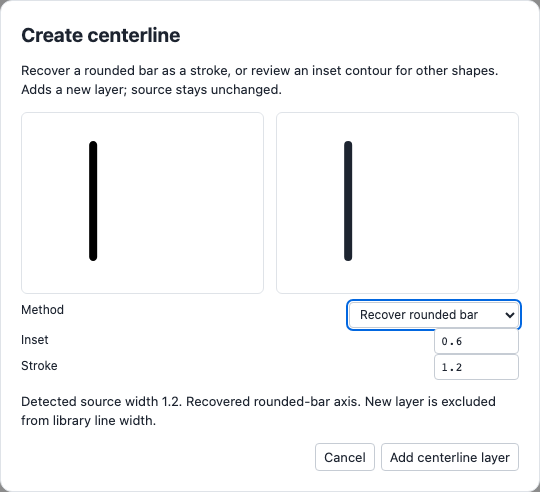
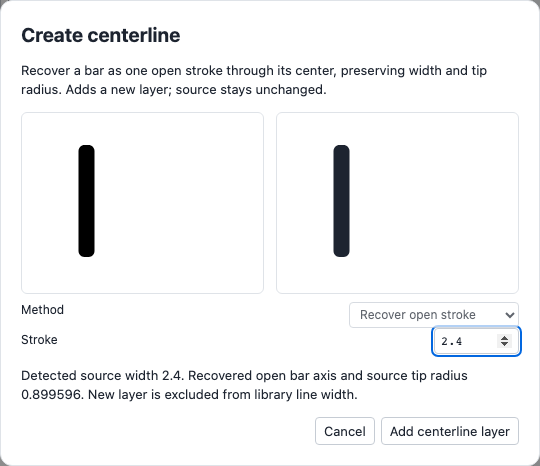
Recover open bar centerlines and expose local stroke edge styles

diff --git a/src/shape-centerline.js b/src/shape-centerline.js
@@ -24,23 +24,31 @@ export function centerlineLayer(source,core,settings,id) {
   return {...layer,id,name:`${source.name} inset contour`,strokeWidth:settings.stroke,rounding:0,endRounding:0};
 }
 
-// Recognize a capsule by its resolved boundary, not by its imported node type.
-// Every boundary sample must lie on the capsule envelope, with matching area.
+// Recognize axis-aligned rounded rectangles from resolved boundaries, including
+// flatter bar ends. Area estimates the corner radius; boundary samples verify it.
 export function recoverBar(source,core) {
   const resolved=core.resolve(source)[0];if(resolved.error||!resolved.d)return null;
-  const compound=new paper.CompoundPath({pathData:resolved.d,insert:false}),lines=[],widths=[];
+  const compound=new paper.CompoundPath({pathData:resolved.d,insert:false}),lines=[],widths=[],radii=[];
   try{for(const contour of compound.children){
     if(!contour.closed)return null;
-    const b=contour.bounds,vertical=b.height>b.width,short=vertical?b.width:b.height,long=vertical?b.height:b.width,r=short/2;
+    const b=contour.bounds,vertical=b.height>b.width,short=vertical?b.width:b.height,long=vertical?b.height:b.width;
     if(short<.1||short>8||long-short<.1)return null;
-    const a=vertical?new paper.Point(b.center.x,b.top+r):new paper.Point(b.left+r,b.center.y),z=vertical?new paper.Point(b.center.x,b.bottom-r):new paper.Point(b.right-r,b.center.y),v=z.subtract(a);
-    const tolerance=Math.max(.015,short*.01),area=(long-short)*short+Math.PI*r*r;
-    if(Math.abs(Math.abs(contour.area)-area)>area*.015)return null;
-    for(let i=0;i<128;i++){const p=contour.getPointAt(contour.length*i/128),t=Math.max(0,Math.min(1,p.subtract(a).dot(v)/v.dot(v)));if(Math.abs(p.getDistance(a.add(v.multiply(t)))-r)>tolerance)return null;}
-    widths.push(short);lines.push({shape:'line',name:'Recovered bar',x1:a.x,y1:a.y,x2:z.x,y2:z.y,cap:'round'});
+    const tolerance=Math.max(.015,short*.01),missing=b.width*b.height-Math.abs(contour.area);
+    if(missing < -tolerance*short)return null;
+    const r=Math.sqrt(Math.max(0,missing)/(4-Math.PI));
+    if(r>short/2+tolerance)return null;
+    const radius=Math.min(short/2,r),envelope=new paper.Path.Rectangle({rectangle:b,radius,insert:false});
+    try{for(let i=0;i<128;i++){
+      const p=contour.getPointAt(contour.length*i/128);
+      if(p.getDistance(envelope.getNearestPoint(p))>tolerance)return null;
+    }}finally{envelope.remove();}
+    // Procedural tips extend half the width beyond each axis endpoint.
+    const inset=radius>1e-6?short/2:0;
+    const a=vertical?new paper.Point(b.center.x,b.top+inset):new paper.Point(b.left+inset,b.center.y),z=vertical?new paper.Point(b.center.x,b.bottom-inset):new paper.Point(b.right-inset,b.center.y);
+    widths.push(short);radii.push(radius);lines.push({shape:'line',name:'Recovered bar',x1:a.x,y1:a.y,x2:z.x,y2:z.y,cap:radius>1e-6?'round':'butt'});
   }}finally{compound.remove();}
-  if(!lines.length||widths.some(w=>Math.abs(w-widths[0])>.02))return null;
-  return {node:{op:'union',name:'Recovered bar centerline',children:lines},stroke:Math.round(widths[0]*1e6)/1e6};
+  if(!lines.length||widths.some(w=>Math.abs(w-widths[0])>.02)||radii.some(r=>Math.abs(r-radii[0])>.02))return null;
+  return {node:{op:'union',name:'Recovered bar centerline',children:lines},stroke:Math.round(widths[0]*1e6)/1e6,endRounding:Math.round(radii[0]*1e6)/1e6};
 }
 
 // Measure ink across inward boundary normals, stopping at the first opposing
@@ -71,17 +79,23 @@ export function estimateSourceWidth(source,core) {
 
 export function createShapeCenterline({root,core,getGlyph,apply,status}) {
   const dialog=document.createElement('dialog');dialog.className='import-dialog centerline-dialog';dialog.setAttribute('aria-labelledby','centerlineHeading');root.appendChild(dialog);
-  let source,snapshot,layer,bar,measurement;
+  let source,snapshot,layer,bar;
   const make=(tag,text,parent,attrs={})=>{const el=document.createElement(tag);el.textContent=text;for(const [k,v]of Object.entries(attrs))el.setAttribute(k,v);parent.appendChild(el);return el;};
   make('h2','Create centerline',dialog,{id:'centerlineHeading'});
-  make('p','Recover a rounded bar as a stroke, or review an inset contour for other shapes. Adds a new layer; source stays unchanged.',dialog,{id:'centerlineHelp'});dialog.setAttribute('aria-describedby','centerlineHelp');
+  make('p','Recover a bar as one open stroke through its center, preserving width and tip radius. Adds a new layer; source stays unchanged.',dialog,{id:'centerlineHelp'});dialog.setAttribute('aria-describedby','centerlineHelp');
   const drawings=make('div','',dialog,{class:'review-drawings'}),original=make('div','',drawings,{'aria-label':'Source shape',class:'review-drawing'}),preview=make('div','',drawings,{'aria-label':'Centerline candidate',class:'review-drawing'});
-  const methodLabel=make('label','Method',dialog,{class:'studio-field'}),method=make('select','',methodLabel,{'aria-label':'Centerline method'});make('option','Recover rounded bar',method,{value:'bar'});make('option','Inset contour',method,{value:'inset'});method.onchange=()=>{inputs.inset.disabled=method.value==='bar';update();};
-  const inputs={};for(const [key,label,min,max]of [['inset','Inset',0,null],['stroke','Stroke',.1,8]]){const row=make('label',label,dialog,{class:'studio-field'});inputs[key]=make('input','',row,{type:'number',min,step:'any','data-scrub-step':.01,'aria-label':`Centerline ${key}`});if(max!==null)inputs[key].max=max;inputs[key].onchange=update;}
+  const methodLabel=make('label','Method',dialog,{class:'studio-field'}),method=make('select','',methodLabel,{'aria-label':'Centerline method'});make('option','Recover open stroke',method,{value:'bar'});
+  const inputs={};for(const [key,label,min,max]of [['stroke','Stroke',.1,8]]){const row=make('label',label,dialog,{class:'studio-field'});inputs[key]=make('input','',row,{type:'number',min,step:'any','data-scrub-step':.01,'aria-label':`Centerline ${key}`});if(max!==null)inputs[key].max=max;inputs[key].oninput=update;inputs[key].onchange=update;}
   const note=make('p','',dialog,{role:'status'}),buttons=make('div','',dialog,{class:'row'}),cancel=make('button','Cancel',buttons,{type:'button',class:'btn'}),accept=make('button','Add centerline layer',buttons,{type:'button',class:'btn'});
-  const settings=()=>({inset:inputs.inset.valueAsNumber,stroke:inputs.stroke.valueAsNumber});
-  function update(){layer=null;accept.disabled=true;try{for(const input of Object.values(inputs))if(!input.checkValidity()||!Number.isFinite(input.valueAsNumber))throw Error('Enter a valid inset and stroke width.');layer=method.value==='bar'?{id:crypto.randomUUID(),name:`${source.name} centerline`,role:source.layers[0].role,color:source.layers[0].color,paint:'stroke',symmetry:false,rounding:0,endRounding:0,strokeWidth:settings().stroke,node:structuredClone(bar.node)}:centerlineLayer(source,core,settings(),crypto.randomUUID());preview.innerHTML=core.toSVG({...source,setStyle:{rounding:0,endRounding:0},symmetry:{rotate:1},layers:[layer]},{mode:'baked',size:192});note.textContent=(bar?`Detected source width ${bar.stroke}. `:measurement?`Estimated source width ${measurement.stroke}${measurement.variable?' (variable thickness)':''}; review the fit. `:'Source width could not be estimated; set stroke manually. ')+(method.value==='bar'?'Recovered rounded-bar axis.':'Boundary offset, not a medial-axis trace; narrow contours can collapse.')+' New layer is excluded from library line width.';accept.disabled=false;}catch(error){preview.replaceChildren();note.textContent=error.message;}}
+  const settings=()=>({stroke:inputs.stroke.valueAsNumber});
+  function update(){layer=null;accept.disabled=true;try{
+    if(!bar)throw Error('This shape cannot yet be recovered as an open stroke. Its source is preserved; a boundary inset would not be a centerline.');
+    if(!inputs.stroke.checkValidity()||!Number.isFinite(inputs.stroke.valueAsNumber))throw Error('Enter a stroke width from 0.1 to 8.');
+    layer={id:crypto.randomUUID(),name:`${source.name} centerline`,role:source.layers[0].role,color:source.layers[0].color,paint:'stroke',symmetry:false,rounding:0,endRounding:bar.endRounding,strokeWidth:settings().stroke,node:structuredClone(bar.node)};
+    preview.innerHTML=core.toSVG({...source,setStyle:{rounding:0,endRounding:0},symmetry:{rotate:1},layers:[layer]},{mode:'baked',size:192});
+    note.textContent=`Detected source width ${bar.stroke}. Recovered open bar axis and source tip radius ${bar.endRounding}. New layer is excluded from library line width.`;accept.disabled=false;
+  }catch(error){preview.replaceChildren();note.textContent=error.message;}}
   cancel.onclick=()=>dialog.close();
   accept.onclick=()=>{try{if(JSON.stringify(getGlyph())!==snapshot)throw Error('Artwork changed; reopen Create centerline.');if(!layer)throw Error('Recompute a valid candidate first.');apply(layer);dialog.close();status('Added an independent centerline layer. Source unchanged; hide the source layer to inspect it. Undo removes the candidate.');}catch(error){note.textContent=error.message;accept.disabled=true;}};
-  return {open(selection){source=centerlineSource(getGlyph(),selection,core);if(!source)throw Error('Select a visible filled shape.');delete source.referenceImage;snapshot=JSON.stringify(getGlyph());const width=getGlyph().strokeOverride??getGlyph().setStyle?.thickness??getGlyph().weight??1.2;bar=recoverBar(source,core);measurement=bar?null:estimateSourceWidth(source,core);method.querySelector('[value=bar]').disabled=!bar;method.value=bar?'bar':'inset';inputs.inset.disabled=!!bar;const detected=bar?.stroke??measurement?.stroke??width;inputs.inset.value=detected/2;inputs.stroke.value=detected;original.innerHTML=core.toSVG(source,{mode:'baked',mono:true,size:192});update();dialog.showModal();},dispose(){dialog.remove();}};
+  return {open(selection){source=centerlineSource(getGlyph(),selection,core);if(!source)throw Error('Select a visible filled shape.');delete source.referenceImage;snapshot=JSON.stringify(getGlyph());const width=getGlyph().strokeOverride??getGlyph().setStyle?.thickness??getGlyph().weight??1.2;bar=recoverBar(source,core);method.disabled=true;inputs.stroke.value=bar?.stroke??width;original.innerHTML=core.toSVG(source,{mode:'baked',mono:true,size:192});update();dialog.showModal();},dispose(){dialog.remove();}};
 }

diff --git a/tests/browser/action-language.spec.js b/tests/browser/action-language.spec.js
@@ -14,8 +14,8 @@ test('layer library toggles capture local values, show customized markers and al
  await page.locator('#setThicknessEnabled').check();await page.locator('#setThickness').fill('2');await page.locator('#setThickness').press('Tab');await page.locator('#setRoundingEnabled').check();await page.locator('#setRounding').fill('1');await page.locator('#setRounding').press('Tab');expect(await page.evaluate(()=>window.__gw.S.glyph.layers[1].strokeWidth)).toBe(1.2);await expect(page.locator('#gLayers path[stroke-width="1.2"]')).toHaveCount(1);await expect(page.locator('#gLayers [data-stroke-tip]')).toHaveCount(0);
  await page.locator('[data-tree-key="1:layer"]').click({button:'right'});await width.click();await expect(page.locator('#gLayers path[stroke-width="2"]')).toHaveCount(1);await page.locator('#undoBtn').click();await expect(page.locator('#gLayers path[stroke-width="1.2"]')).toHaveCount(1);
 });
-test('Actions keyboard entry and Escape return focus; invalid inset cannot publish and canceled review leaves source unchanged',async({page})=>{
- await setup(page);await page.locator('[data-tree-key="0:0"]').click({button:'right'});const button=page.getByRole('menuitem',{name:'Actions',exact:true});await button.focus();await page.keyboard.press('ArrowRight');await expect(page.locator('#selectionActions')).toBeVisible();await page.keyboard.press('Escape');await expect(button).toBeFocused();await expect(page.locator('#selectionActions')).toBeHidden();await button.click();await page.getByRole('menuitem',{name:'Create centerline',exact:true}).click();await page.getByLabel('Centerline method').selectOption('inset');await page.getByLabel('Centerline inset').fill('5');await page.getByLabel('Centerline inset').press('Tab');await expect(page.getByRole('button',{name:'Add centerline layer',exact:true})).toBeDisabled();await page.getByRole('button',{name:'Cancel',exact:true}).click();expect(await page.evaluate(()=>window.__gw.S.glyph.layers.length)).toBe(2);
+test('Actions keyboard entry and Escape return focus; invalid stroke cannot publish and canceled review leaves source unchanged',async({page})=>{
+ await setup(page);await page.locator('[data-tree-key="0:0"]').click({button:'right'});const button=page.getByRole('menuitem',{name:'Actions',exact:true});await button.focus();await page.keyboard.press('ArrowRight');await expect(page.locator('#selectionActions')).toBeVisible();await page.keyboard.press('Escape');await expect(button).toBeFocused();await expect(page.locator('#selectionActions')).toBeHidden();await button.click();await page.getByRole('menuitem',{name:'Create centerline',exact:true}).click();await page.getByLabel('Centerline stroke').fill('0');await expect(page.getByRole('button',{name:'Add centerline layer',exact:true})).toBeDisabled();await page.getByRole('button',{name:'Cancel',exact:true}).click();expect(await page.evaluate(()=>window.__gw.S.glyph.layers.length)).toBe(2);
 });
 test('a stale per-shape candidate cannot overwrite concurrent edits',async({page})=>{
  await setup(page);await page.locator('[data-tree-key="0:0"]').click({button:'right'});await actions(page);await page.getByRole('menuitem',{name:'Create centerline',exact:true}).click();await page.evaluate(()=>{const w=window.__gw;w.S.glyph.layers[1].node.x1=18;w.commit();w.refresh(true);});await page.getByRole('button',{name:'Add centerline layer',exact:true}).click();await expect(page.getByRole('dialog',{name:'Create centerline',exact:true})).toContainText('Artwork changed');expect(await page.evaluate(()=>window.__gw.S.glyph.layers.length)).toBe(2);expect(await page.evaluate(()=>window.__gw.S.glyph.layers[1].node.x1)).toBe(18);
@@ -29,7 +29,20 @@ test('centerline source width becomes visible excluded layer thickness; Actions 
  await page.evaluate(()=>{const w=window.__gw;w.S.sel=[{l:0,p:[1]}];w.refresh(true);});await page.locator('#canvas').press('Shift+F10');await expect(page.locator('#itemMenu > button').first()).toHaveAccessibleName('Actions');await page.keyboard.press('Escape');
  await page.evaluate(()=>window.__gw.flushSaves());await page.reload();await page.waitForFunction(()=>window.__gw?.ready);expect(await page.evaluate(()=>window.__gw.S.glyph.layers[2].strokeWidth)).toBeCloseTo(2.4,5);await page.locator('[data-tree-key="2:layer"]').click();await page.getByLabel('exclude from library line width',{exact:true}).uncheck();await expect(page.locator('#gLayers path[stroke-width="3"]')).toHaveCount(2);await page.locator('#undoBtn').click();await expect(page.locator('#gLayers path[stroke-width="2.4"]')).toHaveCount(1);
 });
-test('inset centerline estimates ring thickness from source instead of inheriting the library weight',async({page})=>{
+test('unrecoverable forms are not mislabeled as centerlines or accepted as closed insets',async({page})=>{
  await ready(page);await page.evaluate(async()=>window.__gw.importLibraryText(JSON.stringify([{name:'ring-source',weight:3,layers:[{id:'ring',name:'Ring',paint:'fill',node:{op:'subtract',children:[{shape:'circle',cx:12,cy:12,r:6},{shape:'circle',cx:12,cy:12,r:4.6}]}}]}]),'ring.json','replace'));
- await page.locator('[data-tree-key="0:"]').click({button:'right'});await actions(page);await page.getByRole('menuitem',{name:'Create centerline',exact:true}).click();await expect(page.getByLabel('Centerline method')).toHaveValue('inset');expect(Number(await page.getByLabel('Centerline stroke').inputValue())).toBeCloseTo(1.4,2);await page.getByRole('button',{name:'Add centerline layer',exact:true}).click();expect(await page.evaluate(()=>window.__gw.S.glyph.layers[1].strokeWidth)).toBeCloseTo(1.4,2);await expect(page.getByLabel('exclude from library line width',{exact:true})).toBeChecked();
+ await page.locator('[data-tree-key="0:"]').click({button:'right'});await actions(page);await page.getByRole('menuitem',{name:'Create centerline',exact:true}).click();await expect(page.getByRole('dialog',{name:'Create centerline',exact:true})).toContainText('cannot yet be recovered as an open stroke');await expect(page.getByRole('button',{name:'Add centerline layer',exact:true})).toBeDisabled();expect(await page.getByLabel('Centerline method').locator('option').allTextContents()).toEqual(['Recover open stroke']);expect(await page.evaluate(()=>window.__gw.S.glyph.layers.length)).toBe(1);
+});
+test('flatter rounded bar previews a matching open stroke live and excluded layers expose local cap and edge rounding',async({page})=>{
+ await ready(page);await page.evaluate(async()=>window.__gw.importLibraryText(JSON.stringify([{name:'flat-tip',weight:1.2,layers:[{id:'bar',name:'Bar',paint:'fill',node:{shape:'rect',x:2.4,y:3.6,w:2.4,h:16.8,r:.9}}]}]),'bar.json','replace'));
+ await page.locator('[data-tree-key="0:"]').click({button:'right'});await actions(page);await page.getByRole('menuitem',{name:'Create centerline',exact:true}).click();
+ const preview=page.getByLabel('Centerline candidate');await expect(preview.locator('svg')).toHaveCount(1);await expect(preview.locator('path[stroke-width="2.4"]')).toHaveCount(1);await expect(page.getByLabel('Centerline stroke')).toHaveValue('2.4');
+ const original=await preview.innerHTML();await page.getByLabel('Centerline stroke').fill('2');expect(await preview.innerHTML()).not.toBe(original);await page.getByLabel('Centerline stroke').fill('2.4');
+ await page.getByRole('button',{name:'Add centerline layer',exact:true}).click();
+ const recovered=await page.evaluate(()=>window.__gw.S.glyph.layers[1]);expect(recovered.node.children).toHaveLength(1);expect(recovered.node.children[0].shape).toBe('line');expect(recovered.node.children[0].closed).not.toBe(true);expect(recovered.endRounding).toBeCloseTo(.9,2);
+ await page.getByLabel('layer cap',{exact:true}).selectOption('square');await expect(page.locator('#gLayers path[stroke-width="2.4"]')).toHaveAttribute('stroke-linecap','square');await expect(page.locator('#gLayers [data-stroke-tip]')).toHaveCount(0);
+ await page.getByLabel('layer join',{exact:true}).selectOption('bevel');await expect(page.locator('#gLayers path[stroke-width="2.4"]')).toHaveAttribute('stroke-linejoin','bevel');
+ await page.getByLabel('layer end rounding',{exact:true}).fill('.4');await page.getByLabel('layer end rounding',{exact:true}).press('Tab');await expect(page.locator('#gLayers [data-stroke-tip]')).toHaveCount(2);
+ await page.getByLabel('layer corner rounding',{exact:true}).fill('.3');await page.getByLabel('layer corner rounding',{exact:true}).press('Tab');await expect(page.locator('#gLayers path[stroke-width="2.4"]')).toHaveAttribute('stroke-linejoin','round');
+ await page.evaluate(()=>window.__gw.flushSaves());await page.reload();await page.waitForFunction(()=>window.__gw?.ready);const saved=await page.evaluate(()=>window.__gw.S.glyph.layers[1]);expect(saved.strokeCap).toBe('square');expect(saved.strokeJoin).toBe('bevel');expect(saved.rounding).toBe(.3);expect(saved.endRounding).toBe(.4);
 });

diff --git a/tests/shape-centerline.test.js b/tests/shape-centerline.test.js
@@ -1,9 +1,9 @@
 import test from 'node:test';import assert from 'node:assert/strict';import paper from 'paper';import {createGlyphCore} from '../src/glyph-core.js';import {centerlineSource,recoverBar,centerlineLayer,estimateSourceWidth} from '../src/shape-centerline.js';import {normalizeGlyph} from '../src/library-io.js';import {layerStyleGlyph} from '../src/stroke-weight.js';import {generateSolid} from '../src/solid-variants.js';
 new paper.Project();const core=createGlyphCore(paper);
 const bar={name:'bar',setStyle:{rounding:0},layers:[{id:'bar',name:'Bar',paint:'fill',node:{shape:'rect',x:11.4,y:3,w:1.2,h:18,r:.6}}]};
-test('thin rounded bar recovers one open axis where half-width inset collapses; rejects noncapsule and short circles',()=>{
+test('thin rounded bar recovers one open axis where half-width inset collapses; rejects irregular forms and short circles',()=>{
  const source=centerlineSource(bar,{l:0,p:[]},core),r=recoverBar(source,core);assert.ok(r);assert.ok(Math.abs(r.stroke-1.2)<.001);assert.ok(Math.abs(r.node.children[0].y1-3.6)<.001);assert.ok(Math.abs(r.node.children[0].y2-20.4)<.001);assert.throws(()=>centerlineLayer(source,core,{inset:.6,stroke:1.2},'x'));
- assert.equal(recoverBar({...bar,layers:[{...bar.layers[0],node:{shape:'rect',x:6,y:3,w:6,h:18}}]},core),null);
+ assert.equal(recoverBar({...bar,layers:[{...bar.layers[0],node:{shape:'pen',closed:true,pts:[{x:6,y:3},{x:12,y:3},{x:11,y:21},{x:6,y:21}]}}]},core),null);
  assert.equal(recoverBar({...bar,layers:[{...bar.layers[0],node:{shape:'circle',cx:12,cy:12,r:3}}]},core),null);
 });
 test('isolation retains parent implicit pivot and symmetry; source and sibling stay untouched',()=>{
@@ -19,4 +19,22 @@ test('source width measures ink across opposing boundaries rather than library w
  const measured=estimateSourceWidth(source,core);assert.ok(Math.abs(measured.stroke-1.4)<.005);assert.equal(measured.variable,false);assert.equal(JSON.stringify(source),before);
  const rect={...source,layers:[{id:'bar',paint:'fill',node:{shape:'rect',x:11,y:3,w:2,h:18,transform:{rotate:30}}}]};assert.ok(Math.abs(estimateSourceWidth(rect,core).stroke-2)<.005);
  assert.equal(estimateSourceWidth({...source,layers:[{id:'empty',paint:'fill',node:{op:'union',children:[]}}]},core),null);assert.equal(paper.project.activeLayer.children.length,count);
+});
+
+test('flatter rounded and square bars recover matching tip geometry; reject rotation and mixed radii',()=>{
+ for(const radius of [0,.9,1.2]) {
+  const source={...bar,layers:[{...bar.layers[0],node:{shape:'rect',x:2.4,y:3.6,w:2.4,h:16.8,r:radius}}]},before=JSON.stringify(source),count=paper.project.activeLayer.children.length;
+  const recovered=recoverBar(source,core);assert.ok(recovered);assert.ok(Math.abs(recovered.endRounding-radius)<.002);assert.equal(recovered.stroke,2.4);
+  const candidate={...source,layers:[{id:'new',paint:'stroke',strokeWidth:recovered.stroke,rounding:0,endRounding:recovered.endRounding,node:recovered.node}]};
+  const svg=core.toSVG(candidate,{mode:'baked'});if(radius)assert.match(svg,/data-stroke-tip/);else assert.match(svg,/stroke-linecap="butt"/);
+  assert.equal(JSON.stringify(source),before);assert.equal(paper.project.activeLayer.children.length,count);
+ }
+ const rotated={...bar,layers:[{...bar.layers[0],node:{shape:'rect',x:4,y:3,w:2.4,h:18,r:.9,transform:{rotate:30}}}]};assert.equal(recoverBar(rotated,core),null);
+ const mixed={...bar,layers:[{...bar.layers[0],node:{op:'union',children:[{shape:'rect',x:4,y:3,w:2.4,h:18,r:.6},{shape:'rect',x:10,y:3,w:2.4,h:18,r:.9}]}}]};assert.equal(recoverBar(mixed,core),null);
+});
+
+test('layer cap and join override part caps in runtime and baked exports and reject invalid values',()=>{
+ const glyph=normalizeGlyph({name:'custom',weight:3,layers:[{id:'custom',paint:'stroke',strokeWidth:2.4,strokeCap:'square',strokeJoin:'bevel',rounding:0,endRounding:0,node:{shape:'pen',pts:[{x:4,y:4},{x:4,y:12},{x:12,y:12}],cap:'round'}}]});
+ assert.match(core.toSVG(glyph,{mode:'baked'}),/stroke-linecap="square" stroke-linejoin="bevel"/);assert.match(core.toSVG(glyph),/stroke-linecap:square;stroke-linejoin:bevel/);
+ assert.throws(()=>normalizeGlyph({...glyph,layers:[{...glyph.layers[0],strokeCap:'invalid'}]}),/invalid layer stroke cap/);assert.throws(()=>normalizeGlyph({...glyph,layers:[{...glyph.layers[0],strokeJoin:'invalid'}]}),/invalid layer stroke join/);
 });

diff --git a/src/editor.js b/src/editor.js
@@ -2661,9 +2661,13 @@ function renderInspector() {
     field(g, 'custom color (#hex)', L.color || '', value => { if (/^#[0-9a-f]{3}(?:[0-9a-f]{3})?$/i.test(value)) L.color = value; else if (!value.trim()) delete L.color; }, { text: true });
     field(g, 'paint', L.paint || 'stroke', v => { L.paint = v; }, { options: ['stroke', 'fill', 'both'] });
     if(L.paint!=='fill')field(g,'exclude from library line width',L.strokeWidth!=null,v=>{if(v)L.strokeWidth=strokeWeight(S.glyph);else delete L.strokeWidth;},{check:true});
-    if(L.rounding!=null)field(g,'layer corner rounding',L.rounding,v=>{L.rounding=v;},{min:0,step:.1});
-    if(L.endRounding!=null)field(g,'layer end rounding',L.endRounding,v=>{L.endRounding=v;},{min:0,step:.1});
+    if(L.rounding!=null||L.strokeWidth!=null)field(g,'layer corner rounding',L.rounding??S.glyph.setStyle?.rounding??0,v=>{L.rounding=v;},{min:0,step:.1});
+    if(L.endRounding!=null||L.strokeWidth!=null)field(g,'layer end rounding',L.endRounding??S.glyph.setStyle?.endRounding??S.glyph.setStyle?.rounding??0,v=>{L.endRounding=v;},{min:0,step:.1});
     if(L.strokeWidth!=null)field(g,'layer stroke width',L.strokeWidth,v=>{L.strokeWidth=v;},{min:.1,max:8,step:'any',scrubStep:.01});
+    if(L.strokeWidth!=null||L.strokeCap!=null||L.strokeJoin!=null){
+      field(g,'layer cap',L.strokeCap??'library',v=>{if(v==='library')delete L.strokeCap;else{L.strokeCap=v;L.endRounding=0;}},{options:['library','round','butt','square']}).setAttribute('aria-label','layer cap');
+      field(g,'layer join',L.strokeJoin??'library',v=>{if(v==='library')delete L.strokeJoin;else{L.strokeJoin=v;L.rounding=0;}},{options:['library','round','miter','bevel']}).setAttribute('aria-label','layer join');
+    }
     field(g, 'opacity', L.opacity == null ? 1 : L.opacity, v => { L.opacity = Math.max(0, Math.min(1, v)); }, { step: 0.05 });
     field(g, 'visible', L.visible !== false, v => { L.visible = v; }, { check: true });
     field(g, 'uses glyph symmetry', L.symmetry !== false, v => { if (v) delete L.symmetry; else L.symmetry = false; }, { check: true });

diff --git a/src/glyph-core.js b/src/glyph-core.js
@@ -675,7 +675,7 @@ export function createGlyphCore(paper) {
       for (const p of r.open) if (p.data.cap) (byCap[p.data.cap] = byCap[p.data.cap] || []).push(itemD(p));
       for (const cap in byCap) parts.push({ d: byCap[cap].join(''), cap });
       const raw = {
-        strokeWidth: layer.strokeWidth, rounding:layer.rounding,endRounding:layer.endRounding, id: layer.id, name: layer.name, role: layer.role || 'primary', paint: layer.paint || 'stroke', color: layer.color || null, fillColor:layer.fillColor || null,strokeColor:layer.strokeColor || null,fillGradient:layer.fillGradient || null,
+        strokeWidth: layer.strokeWidth, strokeCap:layer.strokeCap,strokeJoin:layer.strokeJoin,rounding:layer.rounding,endRounding:layer.endRounding, id: layer.id, name: layer.name, role: layer.role || 'primary', paint: layer.paint || 'stroke', color: layer.color || null, fillColor:layer.fillColor || null,strokeColor:layer.strokeColor || null,fillGradient:layer.fillGradient || null,
         opacity: layer.opacity == null ? 1 : layer.opacity, visible: layer.visible !== false,
         d: parts.map(p => p.d).join(''), parts, error: r.error || null,
       };
@@ -702,9 +702,9 @@ export function createGlyphCore(paper) {
     const rounded = num(glyph.setStyle?.rounding) > 0;
     const roundedEnds = num(glyph.setStyle?.endRounding ?? glyph.setStyle?.rounding) > 0;
     return {
-      cap: roundedEnds ? 'butt' : partCap || glyph.strokeCap || opts.cap || 'round',
+      cap: roundedEnds ? 'butt' : glyph.layerStrokeCap || partCap || glyph.strokeCap || opts.cap || 'round',
       join: rounded ? 'round' : glyph.strokeJoin || opts.join || 'round',
-      runtimeCap: roundedEnds ? 'butt' : partCap || glyph.strokeCap || 'var(--icon-stroke-linecap,round)',
+      runtimeCap: roundedEnds ? 'butt' : glyph.layerStrokeCap || partCap || glyph.strokeCap || 'var(--icon-stroke-linecap,round)',
       runtimeJoin: rounded ? 'round' : glyph.strokeJoin || 'var(--icon-stroke-linejoin,round)',
     };
   }

diff --git a/src/solid-variants.js b/src/solid-variants.js
@@ -7,7 +7,7 @@ const paths=item=>item.children || [item];
 const combine=(a,b,op='unite')=>{if(!a)return b;const result=a[op](b,{insert:false});a.remove();b.remove();return result;};
 const parse=d=>new paper.CompoundPath({pathData:d,insert:false});
 export const solidName=name=>name.endsWith('-outline') ? name.slice(0,-8) : `${name}-solid`;
-export function sourceSignature(glyph,core) {return JSON.stringify({width:strokeWeight(glyph),endRounding:glyph.setStyle?.endRounding ?? glyph.setStyle?.rounding ?? 0,style:core.strokeStyle(glyph,{}),layers:core.resolve(glyph).map(layer=>({id:layer.id,paint:layer.paint,strokeWidth:layer.strokeWidth,rounding:layer.rounding,endRounding:layer.endRounding,visible:layer.visible,opacity:layer.opacity,d:layer.d,parts:layer.parts.map(part=>({cap:part.cap,fusion:part.fusion && {recipe:part.fusion.recipe,sourceParts:part.fusion.sourceParts}}))}))});}
+export function sourceSignature(glyph,core) {return JSON.stringify({width:strokeWeight(glyph),endRounding:glyph.setStyle?.endRounding ?? glyph.setStyle?.rounding ?? 0,style:core.strokeStyle(glyph,{}),layers:core.resolve(glyph).map(layer=>({id:layer.id,paint:layer.paint,strokeWidth:layer.strokeWidth,strokeCap:layer.strokeCap,strokeJoin:layer.strokeJoin,rounding:layer.rounding,endRounding:layer.endRounding,visible:layer.visible,opacity:layer.opacity,d:layer.d,parts:layer.parts.map(part=>({cap:part.cap,fusion:part.fusion && {recipe:part.fusion.recipe,sourceParts:part.fusion.sourceParts}}))}))});}
 
 // Offset closed centerlines to the chosen stroke boundary. Open paths retain
 // their expanded stroke; no invented closure is inserted across a real gap.

diff --git a/src/stroke-weight.js b/src/stroke-weight.js
@@ -1,5 +1,5 @@
 export const strokeWeight=glyph=>glyph.strokeOverride ?? glyph.setStyle?.thickness ?? glyph.weight ?? 1.2;
-export const customizedLayer=layer=>layer.strokeWidth!=null || layer.rounding!=null || layer.endRounding!=null;
+export const customizedLayer=layer=>layer.strokeWidth!=null || layer.rounding!=null || layer.endRounding!=null || layer.strokeCap!=null || layer.strokeJoin!=null;
 export const customizedIcon=glyph=>glyph.strokeOverride!=null || glyph.layers.some(customizedLayer);
-export const layerStyleGlyph=(glyph,layer)=>layer.rounding==null&&layer.endRounding==null?glyph:{...glyph,strokeCap:glyph.strokeCap||'round',strokeJoin:glyph.strokeJoin||'round',setStyle:{...glyph.setStyle,...(layer.rounding!=null?{rounding:layer.rounding}:{}),...(layer.endRounding!=null?{endRounding:layer.endRounding}:{})}};
+export const layerStyleGlyph=(glyph,layer)=>layer.rounding==null&&layer.endRounding==null&&layer.strokeCap==null&&layer.strokeJoin==null?glyph:{...glyph,layerStrokeCap:layer.strokeCap,strokeCap:layer.strokeCap??glyph.strokeCap??'round',strokeJoin:layer.strokeJoin??glyph.strokeJoin??'round',setStyle:{...glyph.setStyle,...(layer.rounding!=null?{rounding:layer.rounding}:{}),...(layer.endRounding!=null?{endRounding:layer.endRounding}:{})}};
 export const libraryStyle=(glyph,style)=>glyph.insetConversion?.strokeBinding==='library' ? {...style,rounding:0,endRounding:0} : glyph.insetConversion ? {...style,thickness:strokeWeight(glyph),rounding:0,endRounding:0} : {...style,...(glyph.strokeOverride!=null?{thickness:glyph.strokeOverride}:{})};

diff --git a/src/library-io.js b/src/library-io.js
@@ -100,6 +100,8 @@ export function normalizeGlyph(input) {
     if(layer.fillGradient!=null)layer.fillGradient=validateGradient(layer.fillGradient);
     if (layer.paint != null && !['stroke', 'fill', 'both'].includes(layer.paint)) throw new Error(`${glyph.name}: invalid paint mode`);
     for(const key of ['color','fillColor','strokeColor'])if(layer[key]!=null && !/^#[0-9a-f]{3}(?:[0-9a-f]{3})?$/i.test(layer[key]))throw new Error(`${glyph.name}: ${key} must be a hex color`);
+    if(layer.strokeCap!=null&&!['round','butt','square'].includes(layer.strokeCap))throw Error(`${glyph.name}: invalid layer stroke cap`);
+    if(layer.strokeJoin!=null&&!['round','miter','bevel'].includes(layer.strokeJoin))throw Error(`${glyph.name}: invalid layer stroke join`);
     if(layer.strokeWidth!=null && (!Number.isFinite(layer.strokeWidth)||layer.strokeWidth<.1||layer.strokeWidth>8))throw Error(`${glyph.name}: invalid layer stroke width`);
     if(layer.endRounding!=null && (!Number.isFinite(layer.endRounding)||layer.endRounding<0))throw Error(`${glyph.name}: invalid layer end rounding`);
     if(layer.rounding!=null && (!Number.isFinite(layer.rounding)||layer.rounding<0))throw Error(`${glyph.name}: invalid layer rounding`);

diff --git a/docs/actions-and-centerlines.md b/docs/actions-and-centerlines.md
@@ -2,7 +2,9 @@
 
 Right-click a shape on the canvas or in Layers, then open **Actions**, the first command below the selection heading. The same selection-aware commands appear in both places. Original diagrams show the starting geometry in gray and the result in the accent color; labels remain visible. Arrow Right opens Actions; Arrow Left or Escape closes it and returns focus. Undo, selection commands and layer library settings stay in the first menu. Anchor alignment uses the compact labels **Align X** and **Align Y**, automatically chosen from the selection. Snapping and alignment use gray-source/accent-result diagrams, with a fixed icon column and separate wrapping label.
 
-**Create centerline** is available for one visible filled shape or group. Review the source and candidate, then choose **Add centerline layer**. Rounded bars are recognized from their resolved capsule boundaries, even when imported as paths, and recover a single open axis with the original bar width. Other shapes use **Inset contour**, explicitly a boundary-offset candidate rather than an inferred medial axis. Stroke initializes from the detected bar width or a sampled estimate across opposing source boundaries. Nonuniform estimates are labeled for review; when width cannot be estimated safely, set it manually. Inset and stroke can be adjusted; collapsed candidates cannot be applied. Cancel preserves the artwork. Applying adds an independent named stroke layer with symmetry/placement baked once and local width/rounding; source geometry and component links remain unchanged. The new layer is selected immediately, exposing its calculated **layer stroke width** with **exclude from library line width** checked. Library thickness changes leave it unchanged; uncheck that setting or re-enable Follow library thickness to resume inheritance. Hide the original layer to inspect the new layer by itself. Undo removes the candidate; editable exports and reload retain it.
+**Create centerline** is available for one visible filled shape or group. Axis-aligned rectangular bars, including flatter rounded ends, recover open center strokes with source width and tip radius. This uses resolved boundaries rather than imported node types. A candidate previews live as you edit stroke width. Applying adds an independent named stroke layer, preserving source geometry/component links and baking placement/symmetry once. The new layer is selected, exposing local thickness and library exclusion. Unsupported forms cannot be applied: a closed boundary inset is no longer presented as a centerline. General curved/branched medial-axis recovery remains unfinished.
+
+Excluded strokes expose **layer cap**, **layer join**, **layer corner rounding**, and **layer end rounding**. Cap choices are library/round/butt/square; join choices are library/round/miter/bevel. Choosing a native cap clears procedural end rounding; choosing a native join clears procedural corner rounding. Setting a positive rounding radius uses procedural rounded tips or joins. Explicit overrides remain independent of library changes and persist through Undo, reload, previews and SVG export. Setting cap/join back to library releases that override; rounding remains an independent setting.
 
 The **Library settings** context section controls the selected object's entire layer. Disable **Follow library thickness** or **Follow library rounding** to capture the current values locally. Re-enable to resume icon/library inheritance. Layer-local widths take priority over icon overrides; icon overrides take priority over library thickness. A diamond indicator marks customized layers and library icons containing overrides. Local width and corner/end rounding can be edited in the layer inspector. Local values apply in canvas, isolation, previews, SVG/raster output and generated solid geometry.
 
@@ -16,7 +18,7 @@ The **Library settings** context section controls the selected object's entire l
 
 Eight original editable action icons were imported into a disposable ICONERD library and survived reload. Prototype comparisons include light/dark appearance, two-column versus row layouts and keyboard/mobile interaction. Artifacts remain in the ignored `imports/action-language/dogfood-v1/` folder.
 
-Half-width inset collapses a 1.2-unit bar and produces a closed contour for wider bars; that is why rounded-bar recovery is a separate method. Recognition is conservative: axis-aligned capsules with matching boundary samples and area, uniform widths when multiple contours occur. Rotated/irregular bars fall back to manual contour review.
+Half-width inset collapses a 1.2-unit bar and produces a closed contour for wider bars; that is why rounded-bar recovery is a separate method. Recognition is conservative: axis-aligned rectangular bars with matching boundary samples and area, uniform widths and tip radii when multiple contours occur. Rotated/irregular or branched forms remain unsupported by Create centerline.
 
 **Fuse nearby strokes** is an explicit group recipe. Right-click a stroke union group on Canvas or in Layers → **Actions → Fuse nearby strokes**. Review the outline and derived solid, adjust **Merge distance**, then save. The default protects existing holes. Zero joins existing overlap; positive distances approximately close nearby gaps. The three-bar trial joins the close pair at .6 and all three at 2.4. Preview before applying; this is geometric gap closing, not a metaball field.
 
